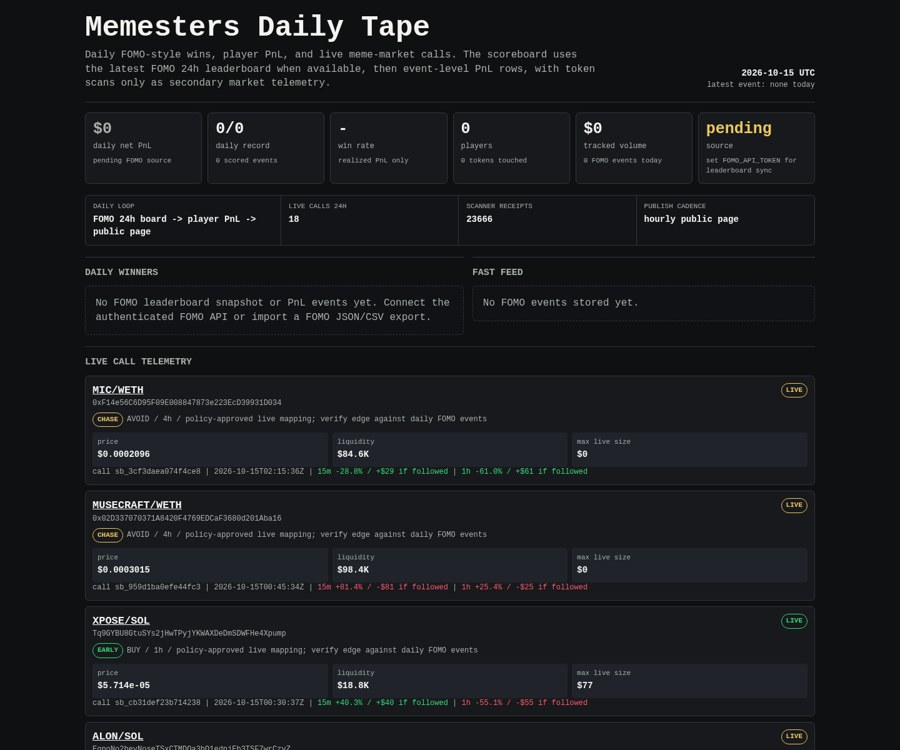
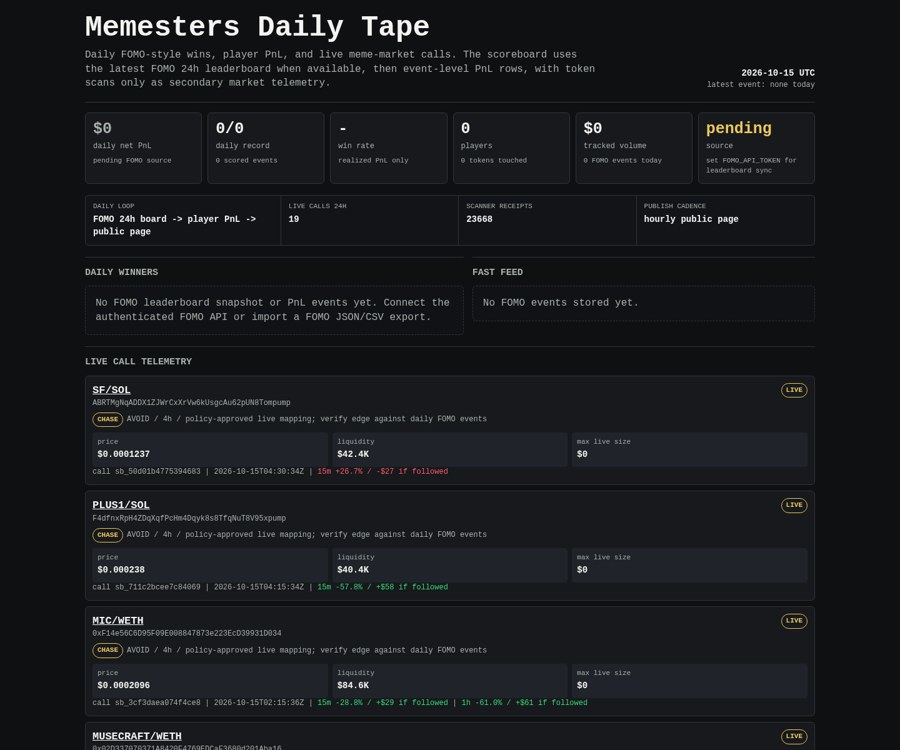
Update Memesters scoreboard

diff --git a/memesters/index.html b/memesters/index.html
@@ -149,8 +149,8 @@
 
     <div class="rail" aria-label="live operating loop">
       <div><span>daily loop</span><b>FOMO 24h board -> player PnL -> public page</b></div>
-      <div><span>live calls 24h</span><b>18</b></div>
-      <div><span>scanner receipts</span><b>23666</b></div>
+      <div><span>live calls 24h</span><b>19</b></div>
+      <div><span>scanner receipts</span><b>23668</b></div>
       <div><span>publish cadence</span><b>hourly public page</b></div>
     </div>
 
@@ -168,6 +168,48 @@
     <section style="margin-top: 18px;">
       <h2>Live Call Telemetry</h2>
       
+    <article class="receipt">
+      <div class="receipt-head">
+        <div>
+          <div class="pair"><a href="https://dexscreener.com/solana/eg5dxk7suxqd7g4vkzhtputgjcgvhukaut6qves7ube8">SF/SOL</a></div>
+          <div class="addr">ABRTMgNqADDX1ZJWrCxXrVw6kUsgcAu62pUN8Tompump</div>
+          <div class="addr policy-line">
+            <span class="badge chase">CHASE</span>
+            <span>AVOID / 4h / policy-approved live mapping; verify edge against daily FOMO events</span>
+          </div>
+        </div>
+        <span class="badge chase">LIVE</span>
+      </div>
+      <div class="receipt-grid">
+        <div class="kv"><span>price</span><b>$0.0001237</b></div>
+        <div class="kv"><span>liquidity</span><b>$42.4K</b></div>
+        <div class="kv"><span>max live size</span><b>$0</b></div>
+      </div>
+      <div class="outcomes">call sb_50d01b4775394683 | 2026-10-15T04:30:34Z | <span class="negative">15m +26.7% / -$27 if followed</span></div>
+    </article>
+    
+
+    <article class="receipt">
+      <div class="receipt-head">
+        <div>
+          <div class="pair"><a href="https://dexscreener.com/solana/2sqtd6cbawfm5xutyjsmynwrrh7oszln8yxyge6apwsm">PLUS1/SOL</a></div>
+          <div class="addr">F4dfnxRpH4ZDqXqfPcHm4Dqyk8s8TfqNuT8V95xpump</div>
+          <div class="addr policy-line">
+            <span class="badge chase">CHASE</span>
+            <span>AVOID / 4h / policy-approved live mapping; verify edge against daily FOMO events</span>
+          </div>
+        </div>
+        <span class="badge chase">LIVE</span>
+      </div>
+      <div class="receipt-grid">
+        <div class="kv"><span>price</span><b>$0.000238</b></div>
+        <div class="kv"><span>liquidity</span><b>$40.4K</b></div>
+        <div class="kv"><span>max live size</span><b>$0</b></div>
+      </div>
+      <div class="outcomes">call sb_711c2bcee7c84069 | 2026-10-15T04:15:34Z | <span class="positive">15m -57.8% / +$58 if followed</span></div>
+    </article>
+    
+
     <article class="receipt">
       <div class="receipt-head">
         <div>
@@ -206,7 +248,7 @@
         <div class="kv"><span>liquidity</span><b>$98.4K</b></div>
         <div class="kv"><span>max live size</span><b>$0</b></div>
       </div>
-      <div class="outcomes">call sb_959d1ba0efe44fc3 | 2026-10-15T00:45:34Z | <span class="negative">15m +81.4% / -$81 if followed</span> | <span class="negative">1h +25.4% / -$25 if followed</span></div>
+      <div class="outcomes">call sb_959d1ba0efe44fc3 | 2026-10-15T00:45:34Z | <span class="negative">15m +81.4% / -$81 if followed</span> | <span class="negative">1h +25.4% / -$25 if followed</span> | <span class="positive">4h -96.9% / +$97 if followed</span></div>
     </article>
     
 
@@ -227,7 +269,7 @@
         <div class="kv"><span>liquidity</span><b>$18.8K</b></div>
         <div class="kv"><span>max live size</span><b>$77</b></div>
       </div>
-      <div class="outcomes">call sb_cb31def23b714238 | 2026-10-15T00:30:37Z | <span class="positive">15m +40.3% / +$40 if followed</span> | <span class="negative">1h -55.1% / -$55 if followed</span></div>
+      <div class="outcomes">call sb_cb31def23b714238 | 2026-10-15T00:30:37Z | <span class="positive">15m +40.3% / +$40 if followed</span> | <span class="negative">1h -55.1% / -$55 if followed</span> | <span class="negative">4h -67.7% / -$68 if followed</span></div>
     </article>
     
 
@@ -333,48 +375,6 @@
         <div class="kv"><span>max live size</span><b>$0</b></div>
       </div>
       <div class="outcomes">call sb_148fb4b7922646fe | 2026-10-14T16:00:40Z | <span class="negative">15m +587.2% / -$587 if followed</span> | <span class="negative">1h +2192.8% / -$2.2K if followed</span> | <span class="negative">4h +2094.0% / -$2.1K if followed</span></div>
-    </article>
-    
-
-    <article class="receipt">
-      <div class="receipt-head">
-        <div>
-          <div class="pair"><a href="https://dexscreener.com/solana/7iopyx3ewe7y9lmxtytly6vrfwpckzrnjpt1jbekcwtk">WYD/SOL</a></div>
-          <div class="addr">D8DBDPUgxP1eMTBhzrCsCVciQm91qHw77kZYdEbTpump</div>
-          <div class="addr policy-line">
-            <span class="badge early">EARLY</span>
-            <span>BUY / 1h / policy-approved live mapping; verify edge against daily FOMO events</span>
-          </div>
-        </div>
-        <span class="badge early">LIVE</span>
-      </div>
-      <div class="receipt-grid">
-        <div class="kv"><span>price</span><b>$4.506e-05</b></div>
-        <div class="kv"><span>liquidity</span><b>$16.3K</b></div>
-        <div class="kv"><span>max live size</span><b>$75</b></div>
-      </div>
-      <div class="outcomes">call sb_eae6e668155c4f75 | 2026-10-14T15:00:44Z | <span class="negative">15m -2.9% / -$3 if followed</span> | <span class="negative">1h -5.8% / -$6 if followed</span> | <span class="negative">4h -13.0% / -$13 if followed</span></div>
-    </article>
-    
-
-    <article class="receipt">
-      <div class="receipt-head">
-        <div>
-          <div class="pair"><a href="https://dexscreener.com/solana/9sjizct6qlvueworbwvnogywr3dkczwgb4vtxzztjymk">angrykitten/SOL</a></div>
-          <div class="addr">DutcPngjK2QaChfiKAZKQpcGLJYkCZrenDJ4bdY3pump</div>
-          <div class="addr policy-line">
-            <span class="badge early">EARLY</span>
-            <span>BUY / 1h / policy-approved live mapping; verify edge against daily FOMO events</span>
-          </div>
-        </div>
-        <span class="badge early">LIVE</span>
-      </div>
-      <div class="receipt-grid">
-        <div class="kv"><span>price</span><b>$6.969e-05</b></div>
-        <div class="kv"><span>liquidity</span><b>$20.9K</b></div>
-        <div class="kv"><span>max live size</span><b>$86</b></div>
-      </div>
-      <div class="outcomes">call sb_5405307acaa044ef | 2026-10-14T14:00:34Z | <span class="positive">15m +12.2% / +$12 if followed</span> | <span class="negative">1h -12.0% / -$12 if followed</span> | <span class="negative">4h -96.8% / -$97 if followed</span></div>
     </article>
     
     </section>
